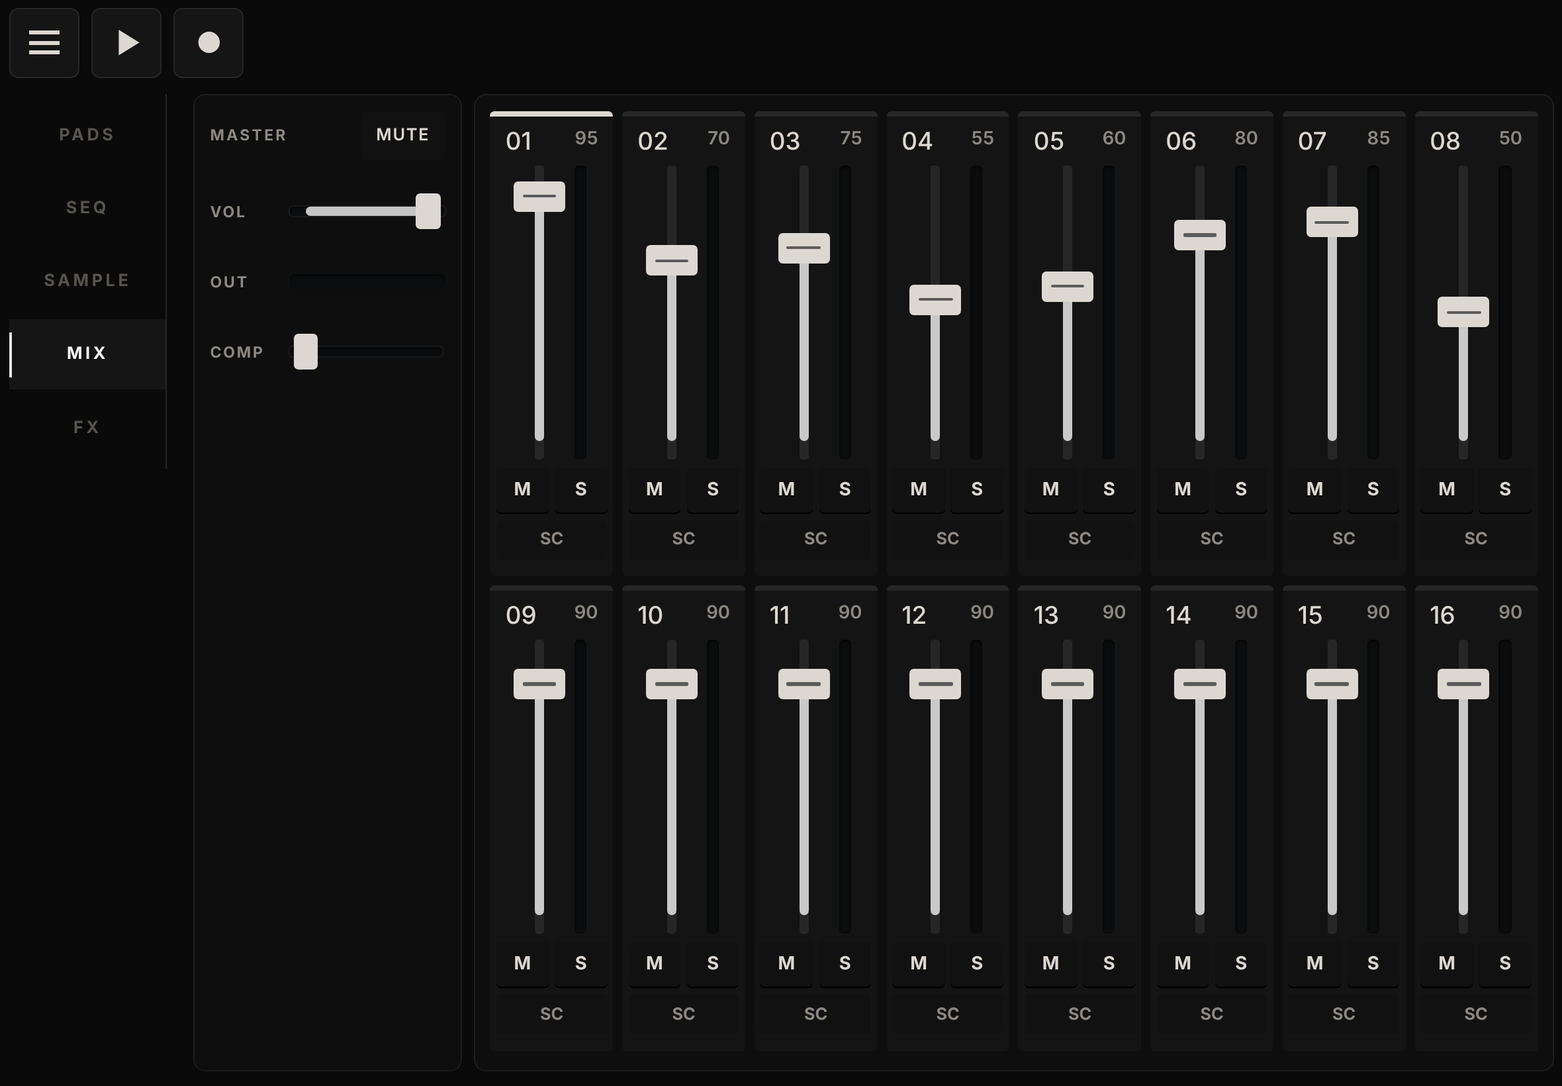
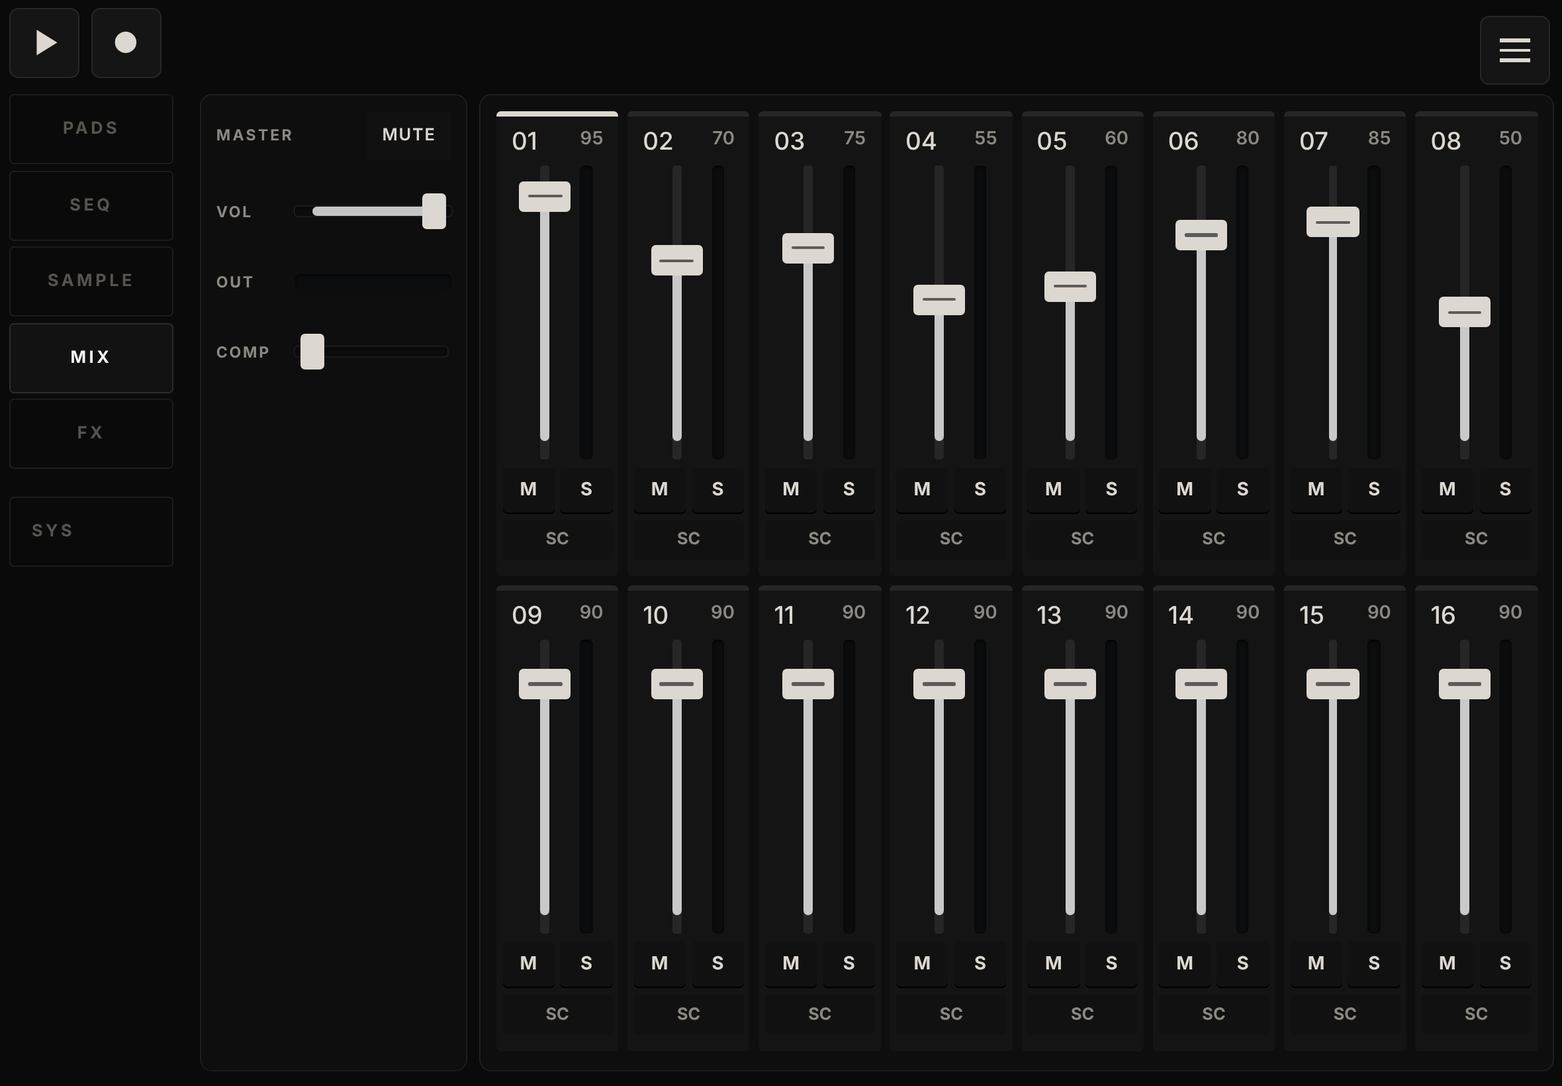
Add files via upload

diff --git a/index.html b/index.html
@@ -535,7 +535,7 @@ body{background:var(--body);font-variant-numeric:tabular-nums}
 .trigs .gc{aspect-ratio:1/1;min-height:0;position:relative;display:flex;flex-direction:column;justify-content:space-between;padding:4px 5px;text-align:left}
 .trigs .gc i{font:700 10px var(--font-ui);font-style:normal;color:var(--dim);letter-spacing:.04em}
 .trigs .gc.on i{color:#0a0a0a99}
-.trigs .gc small{font:700 9px var(--font-ui);align-self:flex-end;color:#0a0a0a}
+.trigs .gc small{position:static;font:700 9px var(--font-ui);align-self:flex-end;color:#0a0a0a}
 .trigs .gc.out{opacity:.25}
 .trigs .gc.alt::after{content:"";position:absolute;right:4px;top:4px;width:4px;height:4px;background:#0a0a0a}
 .trigs .gc.lk::before{content:"";position:absolute;left:4px;right:4px;bottom:3px;height:2px;background:#0a0a0a}
@@ -1053,21 +1053,24 @@ body.fs #s-fx .kgrid{gap:14px 6px}
 }
 
 /* tablet and desktop held sideways: the tabs stay in a permanent left rail; the menu button keeps the rarely used controls (BPM, pattern, undo) */
-body.fs.fsrail #app{padding-left:calc(max(6px,env(safe-area-inset-left,0px)) + 116px)}
-body.fs.fsrail .nav, body.fs.fsrail.fsopen .nav{display:flex;flex-direction:column;gap:2px;position:fixed;z-index:30;left:max(6px,env(safe-area-inset-left,0px));top:62px;bottom:auto;width:104px;padding:4px 0;background:transparent;border:0;border-right:1px solid var(--line)}
-body.fs.fsrail .nav button{min-height:46px;text-align:left;padding:0 14px;font-size:11px;letter-spacing:.18em}
-body.fs.fsrail .nav button.on{background:#151515}
-body.fs.fsrail .nav button.on::before{left:0;right:auto;top:8px;bottom:8px;width:2px;height:auto}
-body.fs.fsrail.fsopen .top{padding-left:calc(max(8px,env(safe-area-inset-left,0px)) + 56px)}
+body.fs.fsrail #app{padding-left:calc(max(6px,env(safe-area-inset-left,0px)) + 120px)}
+body.fs.fsrail .nav, body.fs.fsrail.fsopen .nav{display:flex;flex-direction:column;gap:4px;position:fixed;z-index:30;left:max(6px,env(safe-area-inset-left,0px));top:62px;bottom:auto;width:108px;padding:0;background:transparent;border:0}
+body.fs.fsrail .nav button{min-height:46px;text-align:left;padding:0 14px;font-size:11px;letter-spacing:.18em;border:1px solid #1c1c1c;border-radius:3px}
+body.fs.fsrail .nav button.on{background:#121212;border-color:#2c2c2c}
+body.fs.fsrail .nav button.on::before{display:none}
+body.fs.fsrail.fsopen .nav{z-index:65}
+body.fs.fsrail.fsopen .top{left:auto;right:0;border-right:0;border-left:1px solid var(--line);padding-left:12px}
+body.fs.fsrail .fsmenu{position:fixed;right:max(8px,env(safe-area-inset-right,0px));top:10px}
+body.fs.fsrail.fsopen .fsmenu{z-index:80}
 body.fsrail.fsseq:not(.fspanel){--sq:min(calc((100vw - 250px)/8 - 5px),calc((100vh - 150px)/2 - 4px))}
 
 /* ≡ menu button replaces the SYS word (phone landscape drawer keeps the word) */
 .brandrow .tsys{display:flex;flex-direction:column;align-items:center;justify-content:center;gap:4px;min-width:44px;padding:0 12px}
 .brandrow .tsys i{display:block;width:18px;height:2px;background:currentColor;border-radius:1px}
 .brandrow .tsys span{display:none}
-body.fs:not(.fsrail) .brandrow .tsys{flex-direction:row}
-body.fs:not(.fsrail) .brandrow .tsys i{display:none}
-body.fs:not(.fsrail) .brandrow .tsys span{display:inline}
+body.fs .brandrow .tsys{flex-direction:row}
+body.fs .brandrow .tsys i{display:none}
+body.fs .brandrow .tsys span{display:inline}
 
 /* MIX on tablets: more, slimmer channels instead of a few tall ones */
 @media (orientation:portrait) and (min-width:700px){
@@ -1095,6 +1098,13 @@ body.fs.fsrail.fsmix #s-mix .mastplate{width:176px}
   #s-mix .mastplate .mcomp{grid-column:1/-1}
   #s-mix .trkplate{padding-top:8px;padding-bottom:6px}
 }
+
+.chip.hist svg{display:block;margin:auto}
+
+/* SYS lives at the bottom of the side rail on tablets, so the drawer needs no second menu button */
+.nav .navsys{display:none}
+body.fs.fsrail .nav .navsys{display:block;margin-top:14px}
+body.fs.fsrail .brandrow .tsys{display:none}
 
 </style>
 </head><body><div id="app"></div>
@@ -1958,6 +1968,7 @@ function h(tag,props){
     (Array.isArray(c)?c:[c]).forEach(x=>{if(x==null||x===false)return;e.append(x.nodeType?x:document.createTextNode(T(x)))})}
   return e;
 }
+function icoBtn(cls,label,fn,svg){const b=h('button',{class:cls,'aria-label':label,onclick:fn});b.innerHTML=svg;return b}
 let VIB_OFF=false;try{VIB_OFF=localStorage.getItem('elephant-vib')==='0'}catch(e){}
 const setVib=off=>{VIB_OFF=off;try{localStorage.setItem('elephant-vib',off?'0':'1')}catch(e){}};
 const vib=ms=>{if(VIB_OFF)return;try{navigator.vibrate&&navigator.vibrate(ms)}catch(e){}};
@@ -2225,13 +2236,13 @@ function buildShell(){
     h('div',{class:'brandrow'},h('div',{class:'logo',text:'ELEPHANT'}),h('button',{class:'btn tsys','aria-label':'System settings',onclick:()=>go('sys')},h('i'),h('i'),h('i'),h('span',{text:'SYS'}))),
     h('div',{class:'oled'},h('div',{},h('div',{class:'l1',id:'ol1'}),h('div',{class:'l2',id:'ol2'}),h('div',{class:'l3',id:'ol3'})),scope),
     h('div',{class:'tr'},btnPlay,btnRec,btnFill,btnMet,h('div',{class:'bpm'},h('button',{text:'-',onclick:()=>setBpm(P().bpm-BPM_STEP),'aria-label':'Slower'}),bpmNum,h('button',{text:'+',onclick:()=>setBpm(P().bpm+BPM_STEP),'aria-label':'Faster'}))),
-    h('div',{class:'pr'},btnPat=h('button',{class:'btn patb','aria-label':'Patterns',onclick:openPatSheet}),h('button',{class:'btn tmore','aria-label':'More controls',text:'\u22EF',onclick:e=>{const tp=e.currentTarget.closest('.top');tp.classList.toggle('more');vib(6)}}),mvol=h('div',{class:'mvol'},h('span',{text:'VOL'}),HFader(()=>P().vol==null?1:P().vol,v=>{P().vol=v;fxChanged();oled('VOL '+Math.round(v*100)+'%','MASTER');dirty()})),h('button',{class:'chip hist tx','aria-label':'Undo',text:'UNDO',onclick:undo}),h('button',{class:'chip hist tx','aria-label':'Redo',text:'REDO',onclick:redo})));
+    h('div',{class:'pr'},btnPat=h('button',{class:'btn patb','aria-label':'Patterns',onclick:openPatSheet}),h('button',{class:'btn tmore','aria-label':'More controls',text:'\u22EF',onclick:e=>{const tp=e.currentTarget.closest('.top');tp.classList.toggle('more');vib(6)}}),mvol=h('div',{class:'mvol'},h('span',{text:'VOL'}),HFader(()=>P().vol==null?1:P().vol,v=>{P().vol=v;fxChanged();oled('VOL '+Math.round(v*100)+'%','MASTER');dirty()})),icoBtn('chip hist tx','Undo',undo,'<svg viewBox="0 0 24 24" width="18" height="18" fill="none" stroke="currentColor" stroke-width="3" stroke-linecap="round" stroke-linejoin="round" aria-hidden="true"><path d="M9 14L4 9l5-5"/><path d="M4 9h10a6 6 0 010 12h-3"/></svg>'),icoBtn('chip hist tx','Redo',redo,'<svg viewBox="0 0 24 24" width="18" height="18" fill="none" stroke="currentColor" stroke-width="3" stroke-linecap="round" stroke-linejoin="round" aria-hidden="true"><path d="M15 14l5-5-5-5"/><path d="M20 9H10a6 6 0 000 12h3"/></svg>')));
   const screens=h('div',{class:'screens'},TABS.map(t=>h('div',{class:'screen',id:'s-'+t[0]})));
 const nav=h('nav',{class:'nav'},TABS.filter(t=>t[0]!=='smpl'&&t[0]!=='sys').map(t=>{
   const b=h('button',{'data-tab':t[0],'aria-label':t[1],onclick:()=>go(t[0])});
   b.textContent=T(t[1]);
   return b;
-}));
+}).concat([h('button',{class:'navsys','data-tab':'sys','aria-label':'System settings',text:'SYS',onclick:()=>go('sys')})]));
   const fsMenu=h('button',{class:'fsb fsmenu','aria-label':'Menu',onclick:()=>fsToggle()},h('i'),h('i'),h('i'));
   U.fsRec=h('button',{class:'fsb fsrec','aria-label':'Record',onclick:()=>btnRec.click()});U.fsRec.innerHTML='<svg viewBox="0 0 24 24" width="26" height="26"><circle cx="12" cy="12" r="6.5" fill="currentColor"/></svg>';
   U.fsPlay=h('button',{class:'fsb fsplay','aria-label':'Play or stop',onclick:playToggle});U.fsPlay.innerHTML=FS_PLAY;

diff --git a/test/page.html b/test/page.html
@@ -531,7 +531,7 @@ body{background:var(--body);font-variant-numeric:tabular-nums}
 .trigs .gc{aspect-ratio:1/1;min-height:0;position:relative;display:flex;flex-direction:column;justify-content:space-between;padding:4px 5px;text-align:left}
 .trigs .gc i{font:700 10px var(--font-ui);font-style:normal;color:var(--dim);letter-spacing:.04em}
 .trigs .gc.on i{color:#0a0a0a99}
-.trigs .gc small{font:700 9px var(--font-ui);align-self:flex-end;color:#0a0a0a}
+.trigs .gc small{position:static;font:700 9px var(--font-ui);align-self:flex-end;color:#0a0a0a}
 .trigs .gc.out{opacity:.25}
 .trigs .gc.alt::after{content:"";position:absolute;right:4px;top:4px;width:4px;height:4px;background:#0a0a0a}
 .trigs .gc.lk::before{content:"";position:absolute;left:4px;right:4px;bottom:3px;height:2px;background:#0a0a0a}
@@ -1049,21 +1049,24 @@ body.fs #s-fx .kgrid{gap:14px 6px}
 }
 
 /* tablet and desktop held sideways: the tabs stay in a permanent left rail; the menu button keeps the rarely used controls (BPM, pattern, undo) */
-body.fs.fsrail #app{padding-left:calc(max(6px,env(safe-area-inset-left,0px)) + 116px)}
-body.fs.fsrail .nav, body.fs.fsrail.fsopen .nav{display:flex;flex-direction:column;gap:2px;position:fixed;z-index:30;left:max(6px,env(safe-area-inset-left,0px));top:62px;bottom:auto;width:104px;padding:4px 0;background:transparent;border:0;border-right:1px solid var(--line)}
-body.fs.fsrail .nav button{min-height:46px;text-align:left;padding:0 14px;font-size:11px;letter-spacing:.18em}
-body.fs.fsrail .nav button.on{background:#151515}
-body.fs.fsrail .nav button.on::before{left:0;right:auto;top:8px;bottom:8px;width:2px;height:auto}
-body.fs.fsrail.fsopen .top{padding-left:calc(max(8px,env(safe-area-inset-left,0px)) + 56px)}
+body.fs.fsrail #app{padding-left:calc(max(6px,env(safe-area-inset-left,0px)) + 120px)}
+body.fs.fsrail .nav, body.fs.fsrail.fsopen .nav{display:flex;flex-direction:column;gap:4px;position:fixed;z-index:30;left:max(6px,env(safe-area-inset-left,0px));top:62px;bottom:auto;width:108px;padding:0;background:transparent;border:0}
+body.fs.fsrail .nav button{min-height:46px;text-align:left;padding:0 14px;font-size:11px;letter-spacing:.18em;border:1px solid #1c1c1c;border-radius:3px}
+body.fs.fsrail .nav button.on{background:#121212;border-color:#2c2c2c}
+body.fs.fsrail .nav button.on::before{display:none}
+body.fs.fsrail.fsopen .nav{z-index:65}
+body.fs.fsrail.fsopen .top{left:auto;right:0;border-right:0;border-left:1px solid var(--line);padding-left:12px}
+body.fs.fsrail .fsmenu{position:fixed;right:max(8px,env(safe-area-inset-right,0px));top:10px}
+body.fs.fsrail.fsopen .fsmenu{z-index:80}
 body.fsrail.fsseq:not(.fspanel){--sq:min(calc((100vw - 250px)/8 - 5px),calc((100vh - 150px)/2 - 4px))}
 
 /* ≡ menu button replaces the SYS word (phone landscape drawer keeps the word) */
 .brandrow .tsys{display:flex;flex-direction:column;align-items:center;justify-content:center;gap:4px;min-width:44px;padding:0 12px}
 .brandrow .tsys i{display:block;width:18px;height:2px;background:currentColor;border-radius:1px}
 .brandrow .tsys span{display:none}
-body.fs:not(.fsrail) .brandrow .tsys{flex-direction:row}
-body.fs:not(.fsrail) .brandrow .tsys i{display:none}
-body.fs:not(.fsrail) .brandrow .tsys span{display:inline}
+body.fs .brandrow .tsys{flex-direction:row}
+body.fs .brandrow .tsys i{display:none}
+body.fs .brandrow .tsys span{display:inline}
 
 /* MIX on tablets: more, slimmer channels instead of a few tall ones */
 @media (orientation:portrait) and (min-width:700px){
@@ -1091,6 +1094,13 @@ body.fs.fsrail.fsmix #s-mix .mastplate{width:176px}
   #s-mix .mastplate .mcomp{grid-column:1/-1}
   #s-mix .trkplate{padding-top:8px;padding-bottom:6px}
 }
+
+.chip.hist svg{display:block;margin:auto}
+
+/* SYS lives at the bottom of the side rail on tablets, so the drawer needs no second menu button */
+.nav .navsys{display:none}
+body.fs.fsrail .nav .navsys{display:block;margin-top:14px}
+body.fs.fsrail .brandrow .tsys{display:none}
 
 </style>
 <div id="app"></div>
@@ -1954,6 +1964,7 @@ function h(tag,props){
     (Array.isArray(c)?c:[c]).forEach(x=>{if(x==null||x===false)return;e.append(x.nodeType?x:document.createTextNode(T(x)))})}
   return e;
 }
+function icoBtn(cls,label,fn,svg){const b=h('button',{class:cls,'aria-label':label,onclick:fn});b.innerHTML=svg;return b}
 let VIB_OFF=false;try{VIB_OFF=localStorage.getItem('elephant-vib')==='0'}catch(e){}
 const setVib=off=>{VIB_OFF=off;try{localStorage.setItem('elephant-vib',off?'0':'1')}catch(e){}};
 const vib=ms=>{if(VIB_OFF)return;try{navigator.vibrate&&navigator.vibrate(ms)}catch(e){}};
@@ -2221,13 +2232,13 @@ function buildShell(){
     h('div',{class:'brandrow'},h('div',{class:'logo',text:'ELEPHANT'}),h('button',{class:'btn tsys','aria-label':'System settings',onclick:()=>go('sys')},h('i'),h('i'),h('i'),h('span',{text:'SYS'}))),
     h('div',{class:'oled'},h('div',{},h('div',{class:'l1',id:'ol1'}),h('div',{class:'l2',id:'ol2'}),h('div',{class:'l3',id:'ol3'})),scope),
     h('div',{class:'tr'},btnPlay,btnRec,btnFill,btnMet,h('div',{class:'bpm'},h('button',{text:'-',onclick:()=>setBpm(P().bpm-BPM_STEP),'aria-label':'Slower'}),bpmNum,h('button',{text:'+',onclick:()=>setBpm(P().bpm+BPM_STEP),'aria-label':'Faster'}))),
-    h('div',{class:'pr'},btnPat=h('button',{class:'btn patb','aria-label':'Patterns',onclick:openPatSheet}),h('button',{class:'btn tmore','aria-label':'More controls',text:'\u22EF',onclick:e=>{const tp=e.currentTarget.closest('.top');tp.classList.toggle('more');vib(6)}}),mvol=h('div',{class:'mvol'},h('span',{text:'VOL'}),HFader(()=>P().vol==null?1:P().vol,v=>{P().vol=v;fxChanged();oled('VOL '+Math.round(v*100)+'%','MASTER');dirty()})),h('button',{class:'chip hist tx','aria-label':'Undo',text:'UNDO',onclick:undo}),h('button',{class:'chip hist tx','aria-label':'Redo',text:'REDO',onclick:redo})));
+    h('div',{class:'pr'},btnPat=h('button',{class:'btn patb','aria-label':'Patterns',onclick:openPatSheet}),h('button',{class:'btn tmore','aria-label':'More controls',text:'\u22EF',onclick:e=>{const tp=e.currentTarget.closest('.top');tp.classList.toggle('more');vib(6)}}),mvol=h('div',{class:'mvol'},h('span',{text:'VOL'}),HFader(()=>P().vol==null?1:P().vol,v=>{P().vol=v;fxChanged();oled('VOL '+Math.round(v*100)+'%','MASTER');dirty()})),icoBtn('chip hist tx','Undo',undo,'<svg viewBox="0 0 24 24" width="18" height="18" fill="none" stroke="currentColor" stroke-width="3" stroke-linecap="round" stroke-linejoin="round" aria-hidden="true"><path d="M9 14L4 9l5-5"/><path d="M4 9h10a6 6 0 010 12h-3"/></svg>'),icoBtn('chip hist tx','Redo',redo,'<svg viewBox="0 0 24 24" width="18" height="18" fill="none" stroke="currentColor" stroke-width="3" stroke-linecap="round" stroke-linejoin="round" aria-hidden="true"><path d="M15 14l5-5-5-5"/><path d="M20 9H10a6 6 0 000 12h3"/></svg>')));
   const screens=h('div',{class:'screens'},TABS.map(t=>h('div',{class:'screen',id:'s-'+t[0]})));
 const nav=h('nav',{class:'nav'},TABS.filter(t=>t[0]!=='smpl'&&t[0]!=='sys').map(t=>{
   const b=h('button',{'data-tab':t[0],'aria-label':t[1],onclick:()=>go(t[0])});
   b.textContent=T(t[1]);
   return b;
-}));
+}).concat([h('button',{class:'navsys','data-tab':'sys','aria-label':'System settings',text:'SYS',onclick:()=>go('sys')})]));
   const fsMenu=h('button',{class:'fsb fsmenu','aria-label':'Menu',onclick:()=>fsToggle()},h('i'),h('i'),h('i'));
   U.fsRec=h('button',{class:'fsb fsrec','aria-label':'Record',onclick:()=>btnRec.click()});U.fsRec.innerHTML='<svg viewBox="0 0 24 24" width="26" height="26"><circle cx="12" cy="12" r="6.5" fill="currentColor"/></svg>';
   U.fsPlay=h('button',{class:'fsb fsplay','aria-label':'Play or stop',onclick:playToggle});U.fsPlay.innerHTML=FS_PLAY;

diff --git a/src/style.css b/src/style.css
@@ -527,7 +527,7 @@ body{background:var(--body);font-variant-numeric:tabular-nums}
 .trigs .gc{aspect-ratio:1/1;min-height:0;position:relative;display:flex;flex-direction:column;justify-content:space-between;padding:4px 5px;text-align:left}
 .trigs .gc i{font:700 10px var(--font-ui);font-style:normal;color:var(--dim);letter-spacing:.04em}
 .trigs .gc.on i{color:#0a0a0a99}
-.trigs .gc small{font:700 9px var(--font-ui);align-self:flex-end;color:#0a0a0a}
+.trigs .gc small{position:static;font:700 9px var(--font-ui);align-self:flex-end;color:#0a0a0a}
 .trigs .gc.out{opacity:.25}
 .trigs .gc.alt::after{content:"";position:absolute;right:4px;top:4px;width:4px;height:4px;background:#0a0a0a}
 .trigs .gc.lk::before{content:"";position:absolute;left:4px;right:4px;bottom:3px;height:2px;background:#0a0a0a}
@@ -1045,21 +1045,24 @@ body.fs #s-fx .kgrid{gap:14px 6px}
 }
 
 /* tablet and desktop held sideways: the tabs stay in a permanent left rail; the menu button keeps the rarely used controls (BPM, pattern, undo) */
-body.fs.fsrail #app{padding-left:calc(max(6px,env(safe-area-inset-left,0px)) + 116px)}
-body.fs.fsrail .nav, body.fs.fsrail.fsopen .nav{display:flex;flex-direction:column;gap:2px;position:fixed;z-index:30;left:max(6px,env(safe-area-inset-left,0px));top:62px;bottom:auto;width:104px;padding:4px 0;background:transparent;border:0;border-right:1px solid var(--line)}
-body.fs.fsrail .nav button{min-height:46px;text-align:left;padding:0 14px;font-size:11px;letter-spacing:.18em}
-body.fs.fsrail .nav button.on{background:#151515}
-body.fs.fsrail .nav button.on::before{left:0;right:auto;top:8px;bottom:8px;width:2px;height:auto}
-body.fs.fsrail.fsopen .top{padding-left:calc(max(8px,env(safe-area-inset-left,0px)) + 56px)}
+body.fs.fsrail #app{padding-left:calc(max(6px,env(safe-area-inset-left,0px)) + 120px)}
+body.fs.fsrail .nav, body.fs.fsrail.fsopen .nav{display:flex;flex-direction:column;gap:4px;position:fixed;z-index:30;left:max(6px,env(safe-area-inset-left,0px));top:62px;bottom:auto;width:108px;padding:0;background:transparent;border:0}
+body.fs.fsrail .nav button{min-height:46px;text-align:left;padding:0 14px;font-size:11px;letter-spacing:.18em;border:1px solid #1c1c1c;border-radius:3px}
+body.fs.fsrail .nav button.on{background:#121212;border-color:#2c2c2c}
+body.fs.fsrail .nav button.on::before{display:none}
+body.fs.fsrail.fsopen .nav{z-index:65}
+body.fs.fsrail.fsopen .top{left:auto;right:0;border-right:0;border-left:1px solid var(--line);padding-left:12px}
+body.fs.fsrail .fsmenu{position:fixed;right:max(8px,env(safe-area-inset-right,0px));top:10px}
+body.fs.fsrail.fsopen .fsmenu{z-index:80}
 body.fsrail.fsseq:not(.fspanel){--sq:min(calc((100vw - 250px)/8 - 5px),calc((100vh - 150px)/2 - 4px))}
 
 /* ≡ menu button replaces the SYS word (phone landscape drawer keeps the word) */
 .brandrow .tsys{display:flex;flex-direction:column;align-items:center;justify-content:center;gap:4px;min-width:44px;padding:0 12px}
 .brandrow .tsys i{display:block;width:18px;height:2px;background:currentColor;border-radius:1px}
 .brandrow .tsys span{display:none}
-body.fs:not(.fsrail) .brandrow .tsys{flex-direction:row}
-body.fs:not(.fsrail) .brandrow .tsys i{display:none}
-body.fs:not(.fsrail) .brandrow .tsys span{display:inline}
+body.fs .brandrow .tsys{flex-direction:row}
+body.fs .brandrow .tsys i{display:none}
+body.fs .brandrow .tsys span{display:inline}
 
 /* MIX on tablets: more, slimmer channels instead of a few tall ones */
 @media (orientation:portrait) and (min-width:700px){
@@ -1087,3 +1090,10 @@ body.fs.fsrail.fsmix #s-mix .mastplate{width:176px}
   #s-mix .mastplate .mcomp{grid-column:1/-1}
   #s-mix .trkplate{padding-top:8px;padding-bottom:6px}
 }
+
+.chip.hist svg{display:block;margin:auto}
+
+/* SYS lives at the bottom of the side rail on tablets, so the drawer needs no second menu button */
+.nav .navsys{display:none}
+body.fs.fsrail .nav .navsys{display:block;margin-top:14px}
+body.fs.fsrail .brandrow .tsys{display:none}

diff --git a/src/ui/040_shell.js b/src/ui/040_shell.js
@@ -20,13 +20,13 @@ function buildShell(){
     h('div',{class:'brandrow'},h('div',{class:'logo',text:'ELEPHANT'}),h('button',{class:'btn tsys','aria-label':'System settings',onclick:()=>go('sys')},h('i'),h('i'),h('i'),h('span',{text:'SYS'}))),
     h('div',{class:'oled'},h('div',{},h('div',{class:'l1',id:'ol1'}),h('div',{class:'l2',id:'ol2'}),h('div',{class:'l3',id:'ol3'})),scope),
     h('div',{class:'tr'},btnPlay,btnRec,btnFill,btnMet,h('div',{class:'bpm'},h('button',{text:'-',onclick:()=>setBpm(P().bpm-BPM_STEP),'aria-label':'Slower'}),bpmNum,h('button',{text:'+',onclick:()=>setBpm(P().bpm+BPM_STEP),'aria-label':'Faster'}))),
-    h('div',{class:'pr'},btnPat=h('button',{class:'btn patb','aria-label':'Patterns',onclick:openPatSheet}),h('button',{class:'btn tmore','aria-label':'More controls',text:'\u22EF',onclick:e=>{const tp=e.currentTarget.closest('.top');tp.classList.toggle('more');vib(6)}}),mvol=h('div',{class:'mvol'},h('span',{text:'VOL'}),HFader(()=>P().vol==null?1:P().vol,v=>{P().vol=v;fxChanged();oled('VOL '+Math.round(v*100)+'%','MASTER');dirty()})),h('button',{class:'chip hist tx','aria-label':'Undo',text:'UNDO',onclick:undo}),h('button',{class:'chip hist tx','aria-label':'Redo',text:'REDO',onclick:redo})));
+    h('div',{class:'pr'},btnPat=h('button',{class:'btn patb','aria-label':'Patterns',onclick:openPatSheet}),h('button',{class:'btn tmore','aria-label':'More controls',text:'\u22EF',onclick:e=>{const tp=e.currentTarget.closest('.top');tp.classList.toggle('more');vib(6)}}),mvol=h('div',{class:'mvol'},h('span',{text:'VOL'}),HFader(()=>P().vol==null?1:P().vol,v=>{P().vol=v;fxChanged();oled('VOL '+Math.round(v*100)+'%','MASTER');dirty()})),icoBtn('chip hist tx','Undo',undo,'<svg viewBox="0 0 24 24" width="18" height="18" fill="none" stroke="currentColor" stroke-width="3" stroke-linecap="round" stroke-linejoin="round" aria-hidden="true"><path d="M9 14L4 9l5-5"/><path d="M4 9h10a6 6 0 010 12h-3"/></svg>'),icoBtn('chip hist tx','Redo',redo,'<svg viewBox="0 0 24 24" width="18" height="18" fill="none" stroke="currentColor" stroke-width="3" stroke-linecap="round" stroke-linejoin="round" aria-hidden="true"><path d="M15 14l5-5-5-5"/><path d="M20 9H10a6 6 0 000 12h3"/></svg>')));
   const screens=h('div',{class:'screens'},TABS.map(t=>h('div',{class:'screen',id:'s-'+t[0]})));
 const nav=h('nav',{class:'nav'},TABS.filter(t=>t[0]!=='smpl'&&t[0]!=='sys').map(t=>{
   const b=h('button',{'data-tab':t[0],'aria-label':t[1],onclick:()=>go(t[0])});
   b.textContent=T(t[1]);
   return b;
-}));
+}).concat([h('button',{class:'navsys','data-tab':'sys','aria-label':'System settings',text:'SYS',onclick:()=>go('sys')})]));
   const fsMenu=h('button',{class:'fsb fsmenu','aria-label':'Menu',onclick:()=>fsToggle()},h('i'),h('i'),h('i'));
   U.fsRec=h('button',{class:'fsb fsrec','aria-label':'Record',onclick:()=>btnRec.click()});U.fsRec.innerHTML='<svg viewBox="0 0 24 24" width="26" height="26"><circle cx="12" cy="12" r="6.5" fill="currentColor"/></svg>';
   U.fsPlay=h('button',{class:'fsb fsplay','aria-label':'Play or stop',onclick:playToggle});U.fsPlay.innerHTML=FS_PLAY;

diff --git a/src/ui/010_helpers.js b/src/ui/010_helpers.js
@@ -8,6 +8,7 @@ function h(tag,props){
     (Array.isArray(c)?c:[c]).forEach(x=>{if(x==null||x===false)return;e.append(x.nodeType?x:document.createTextNode(T(x)))})}
   return e;
 }
+function icoBtn(cls,label,fn,svg){const b=h('button',{class:cls,'aria-label':label,onclick:fn});b.innerHTML=svg;return b}
 let VIB_OFF=false;try{VIB_OFF=localStorage.getItem('elephant-vib')==='0'}catch(e){}
 const setVib=off=>{VIB_OFF=off;try{localStorage.setItem('elephant-vib',off?'0':'1')}catch(e){}};
 const vib=ms=>{if(VIB_OFF)return;try{navigator.vibrate&&navigator.vibrate(ms)}catch(e){}};

diff --git a/sw.js b/sw.js
@@ -1,5 +1,5 @@
 /* ELEPHANT service worker: cache first, so the app opens offline after the first visit */
-const C='elephant-v33';
+const C='elephant-v38';
 self.addEventListener('install',e=>{self.skipWaiting();e.waitUntil(caches.open(C).then(c=>c.addAll(['./','./index.html']).catch(()=>{})))});
 self.addEventListener('activate',e=>{e.waitUntil(caches.keys().then(k=>Promise.all(k.filter(x=>x!==C).map(x=>caches.delete(x)))).then(()=>self.clients.claim()))});
 self.addEventListener('fetch',e=>{
